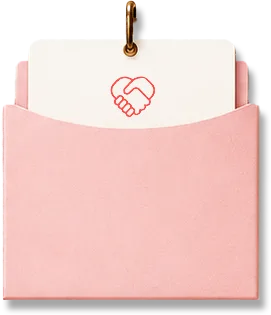
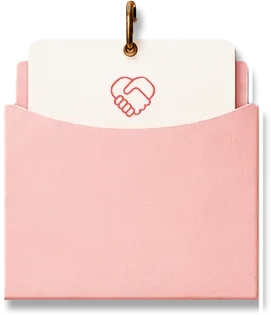
feat: update 13 envelope images to new exports
From the 27-file asset drop, 14 were byte-identical to what's already
in assets-web (bg-main, decorate-bg, envelope-scene and 11 env-* files)
and are left alone. The 13 that differ are replaced at the same paths
and pixel sizes: env-{anxious,broken,calling,compare,distant,forgive,
thanks,waiting}, env-back-{anxious,thanks} and env-front-{calling,
compare,distant,thanks}. Synced into mind-pharmacy/assets-web, which
mirrors it; assets-min (standalone-only compressed copies) untouched.

Envelope refs in MainScreen, IntroSequence (preload) and
AssessmentScreen get ?v=2 and their script tags are version-bumped so
cached browsers fetch the new art.

diff --git a/ui_kits/soul-pharmacy/AssessmentScreen.jsx b/ui_kits/soul-pharmacy/AssessmentScreen.jsx
@@ -86,7 +86,7 @@ function AssessmentScreen({ mood, onBack, onSubmit }) {
       <div aria-hidden="true" style={{ position: "absolute", inset: 0, zIndex: 0, overflow: "hidden", pointerEvents: "none" }}>
         <div style={{ position: "absolute", top: pc ? "9%" : "7%", left: "50%", transform: "translateX(-50%)", display: "flex", gap: pc ? 30 : 14, filter: "blur(4px)", opacity: 0.5 }}>
           {["anxious", "broken", "compare", "waiting", "forgive", "distant", "calling", "thanks"].map((k, i) => (
-            <img key={k} src={`assets-web/env-front-${k}.webp`} alt="" draggable="false" style={{ width: pc ? 150 : 68, height: "auto", transform: `translateY(${i % 2 ? 20 : 0}px)`, userSelect: "none" }} />
+            <img key={k} src={`assets-web/env-front-${k}.webp?v=2`} alt="" draggable="false" style={{ width: pc ? 150 : 68, height: "auto", transform: `translateY(${i % 2 ? 20 : 0}px)`, userSelect: "none" }} />
           ))}
         </div>
         <div style={{ position: "absolute", inset: 0, background: "linear-gradient(180deg, rgba(250,247,240,0.5) 0%, rgba(250,247,240,0.82) 52%, #F3EEE9 100%)" }} />
@@ -120,7 +120,7 @@ function AssessmentScreen({ mood, onBack, onSubmit }) {
 
           {/* (1) 봉투 뒷면 */}
           <img
-            src={`assets-web/env-back-${mood}.webp`}
+            src={`assets-web/env-back-${mood}.webp?v=2`}
             alt=""
             draggable="false"
             style={{ position: "absolute", left: "50%", bottom: 0, transform: "translateX(-50%)", width: backW, height: "auto", zIndex: 1, userSelect: "none", filter: "drop-shadow(0 14px 22px rgba(120,92,64,0.16))", pointerEvents: "none" }}
@@ -170,7 +170,7 @@ function AssessmentScreen({ mood, onBack, onSubmit }) {
               filter: "drop-shadow(0 6px 10px rgba(120,92,64,0.14))",
             }}
           >
-            <img src={`assets-web/env-front-${mood}.webp`} alt="" draggable="false" style={{ display: "block", width: "100%", height: "auto", userSelect: "none" }} />
+            <img src={`assets-web/env-front-${mood}.webp?v=2`} alt="" draggable="false" style={{ display: "block", width: "100%", height: "auto", userSelect: "none" }} />
             <span
               style={{
                 position: "absolute", left: 0, right: 0, top: "62%", transform: "translateY(-50%)",

diff --git a/ui_kits/soul-pharmacy/MainScreen.jsx b/ui_kits/soul-pharmacy/MainScreen.jsx
@@ -3,14 +3,14 @@
 // 기존 리스트/제목은 아래로 내려가며 사라진(list-exit) 뒤 onNext로 문진 화면으로 넘어간다.
 function MainScreen({ selected, onSelect, onNext }) {
   const ENVELOPES = [
-    { key: "anxious", img: "assets-web/env-anxious.webp", label: "불안해요" },
-    { key: "broken",  img: "assets-web/env-broken.webp",  label: "마음이\n무너졌어요" },
-    { key: "compare", img: "assets-web/env-compare.webp", label: "비교돼요" },
-    { key: "waiting", img: "assets-web/env-waiting.webp", label: "기다리기\n힘들어요" },
-    { key: "forgive", img: "assets-web/env-forgive.webp", label: "용서가\n안 돼요" },
-    { key: "distant", img: "assets-web/env-distant.webp", label: "하나님이\n멀게 느껴져요" },
-    { key: "calling", img: "assets-web/env-calling.webp", label: "책임이\n버거워요" },
-    { key: "thanks",  img: "assets-web/env-thanks.webp",  label: "감사가\n사라졌어요" },
+    { key: "anxious", img: "assets-web/env-anxious.webp?v=2", label: "불안해요" },
+    { key: "broken",  img: "assets-web/env-broken.webp?v=2",  label: "마음이\n무너졌어요" },
+    { key: "compare", img: "assets-web/env-compare.webp?v=2", label: "비교돼요" },
+    { key: "waiting", img: "assets-web/env-waiting.webp?v=2", label: "기다리기\n힘들어요" },
+    { key: "forgive", img: "assets-web/env-forgive.webp?v=2", label: "용서가\n안 돼요" },
+    { key: "distant", img: "assets-web/env-distant.webp?v=2", label: "하나님이\n멀게 느껴져요" },
+    { key: "calling", img: "assets-web/env-calling.webp?v=2", label: "책임이\n버거워요" },
+    { key: "thanks",  img: "assets-web/env-thanks.webp?v=2",  label: "감사가\n사라졌어요" },
   ];
   const ENV_W = 168; // 봉투 표시 폭 (원본 271×315 비율 유지)
 

diff --git a/ui_kits/soul-pharmacy/index.html b/ui_kits/soul-pharmacy/index.html
@@ -50,9 +50,9 @@
   );
 </script>
 <script type="text/babel" src="LogoMark.jsx"></script>
-<script type="text/babel" src="IntroSequence.jsx"></script>
-<script type="text/babel" src="MainScreen.jsx?v=soundctl1"></script>
-<script type="text/babel" src="AssessmentScreen.jsx?v=nav1"></script>
+<script type="text/babel" src="IntroSequence.jsx?v=env2"></script>
+<script type="text/babel" src="MainScreen.jsx?v=env2"></script>
+<script type="text/babel" src="AssessmentScreen.jsx?v=env2"></script>
 <script type="text/babel" src="ResultScreen.jsx?v=savePrescription4"></script>
 <script type="text/babel" src="StickerScreen.jsx?v=cardfit2"></script>
 <script type="text/babel">

diff --git a/ui_kits/soul-pharmacy/IntroSequence.jsx b/ui_kits/soul-pharmacy/IntroSequence.jsx
@@ -133,7 +133,7 @@ function IntroLoading({ onDone }) {
     let done = false;
     const finish = () => { if (!done) { done = true; setBye(true); setTimeout(() => onDone && onDone(), 460); } };
     const urls = ["assets-web/leaf-tl.webp", "assets-web/leaf-br.webp", "assets-web/wood-bar.webp"];
-    for (const m of MOODS) urls.push("assets-web/env-" + m + ".webp");
+    for (const m of MOODS) urls.push("assets-web/env-" + m + ".webp?v=2");
     let loaded = 0;
     const check = () => { loaded++; if (loaded >= urls.length) setTimeout(finish, 200); };
     for (const u of urls) { const img = new Image(); img.onload = check; img.onerror = check; img.src = u; }
